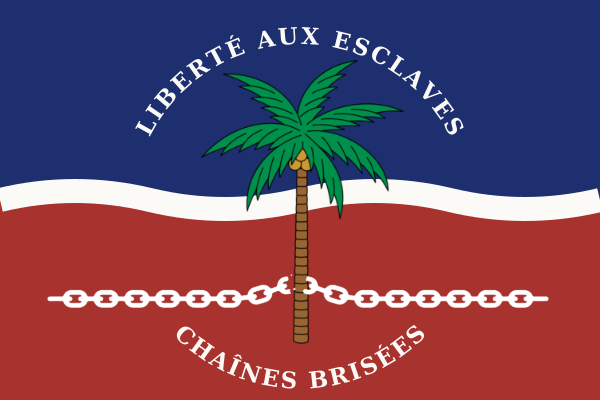
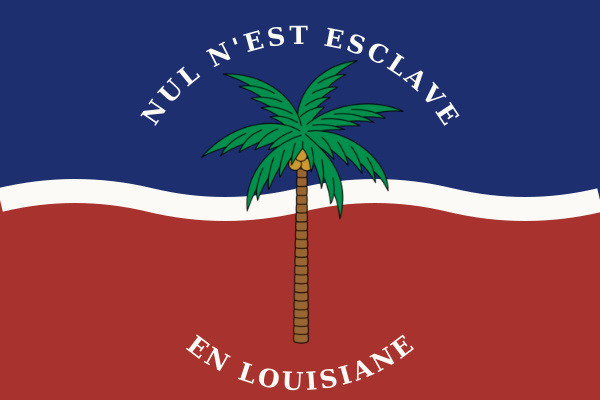
Flaga 6: dewiza NUL N'EST ESCLAVE EN LOUISIANE, bez łańcucha
Claude-Session: https://claude.ai/code/session_01PNyJEgjZDVeUSFrp2WbnmN

diff --git a/gfx_koncepty/flagi_luizjana/generuj_flagi.py b/gfx_koncepty/flagi_luizjana/generuj_flagi.py
@@ -113,7 +113,7 @@ F['3_konsulat']=svg(bands+f'<rect x="66" width="5" height="200" fill="{GOLD}"/><
 F['4_cesarstwo']=svg(f'<rect width="300" height="200" fill="{PURPLE}"/>'+laurel(150,112,72,GOLD)+eagimg(150,114,92)+crownimp(150,50,50)+''.join(beeimg(x,y,30) for x,y in ((30,30),(270,30),(30,170),(270,170))))
 sem=''.join(fleur(x,y,.36,GOLD) for x in range(25,300,42) for y in range(24,200,42) if not (100<x<200 and y<180))
 F['5_burbonowie']=svg(f'<rect width="300" height="200" fill="{BLUE}"/>{sem}<path d="M108,52 L192,52 L192,118 Q192,162 150,176 Q108,162 108,118Z" fill="{WHITE}"/><path d="M108,52 L192,52 L192,118 Q192,162 150,176 Q108,162 108,118Z" fill="none" stroke="{GOLD}" stroke-width="3"/>'+pelimg(150,118,84)+crownimg(150,58,70))
-F['6_wolna']=svg(f'<rect width="300" height="100" fill="{BLUE}"/><rect y="100" width="300" height="100" fill="{RED}"/>'+wave(100,WHITE,12)+palmimg(150,172,142)+chainimg(148,146,256)+ring_text(150,106,84,80,"LIBERTÉ AUX ESCLAVES","CHAÎNES BRISÉES",WHITE))
+F['6_wolna']=svg(f'<rect width="300" height="100" fill="{BLUE}"/><rect y="100" width="300" height="100" fill="{RED}"/>'+wave(100,WHITE,12)+palmimg(150,172,142)+ring_text(150,106,84,80,"NUL N'EST ESCLAVE","EN LOUISIANE",WHITE,fs=12.5,ls=1.6))
 F['7_komuna']=svg(f'<rect width="300" height="200" fill="{RED}"/>'+laurel(150,100,66,WHITE)+anchor_hammer(150,98,WHITE)+wave(186,WHITE,5))
 F['8_konfederacja']=svg(f'<rect width="300" height="100" fill="{WHITE}"/><rect y="100" width="300" height="100" fill="{RED}"/><rect width="76" height="200" fill="{BLUE}"/>'+star(38,64,16,WHITE)+star(38,136,16,WHITE)+pelimg(188,52,92)+tobacco(188,150,1.0,GOLD,RED))
 import os

diff --git a/gfx_koncepty/flagi_luizjana/README.md b/gfx_koncepty/flagi_luizjana/README.md
@@ -10,9 +10,7 @@ Płaskie flagi wektorowe 3:2 (SVG 1536×1024) dla ośmiu form rządu Luizjany i 
 
 **Korona burbońska** (flaga 5), **korona cesarska** i **pszczoły** (flaga 4): [korona_burbonska.png](../emblematy/korona_burbonska.png), [korona_cesarska.png](../emblematy/korona_cesarska.png), [pszczola.png](../emblematy/pszczola.png), wycięte z herbów od autora moda (wyglądają na pliki z Wikimedia Commons, licencję też sprawdzić).
 
-**Dewiza flagi 6** (białe litery po okręgu wokół palmy): u góry *LIBERTÉ AUX ESCLAVES*, u dołu *CHAÎNES BRISÉES*. W Vic3 napis musi być częścią emblematu (DDS), bo skrypt herbowy nie ma tekstu.
-
-**Zerwany łańcuch** (flaga 6, na biało, przed pniem palmy): [lancuch_zerwany.png](../emblematy/lancuch_zerwany.png), od autora moda; źródło ma niską rozdzielczość (powiększone 4×), przy finalnym DDS warto mieć większy plik albo wektor.
+**Dewiza flagi 6** (białe litery po okręgu wokół palmy): *NUL N'EST ESCLAVE EN LOUISIANE* („Nikt nie jest niewolnikiem w Luizjanie”), u góry pierwsza część, u dołu *EN LOUISIANE*. W Vic3 napis musi być częścią emblematu (DDS), bo skrypt herbowy nie ma tekstu.
 
 Wieniec laurowy, kotwica z młotem i liść tytoniu to na razie proste sylwetki wektorowe do podmiany na ilustracje w tym samym stylu.
 
